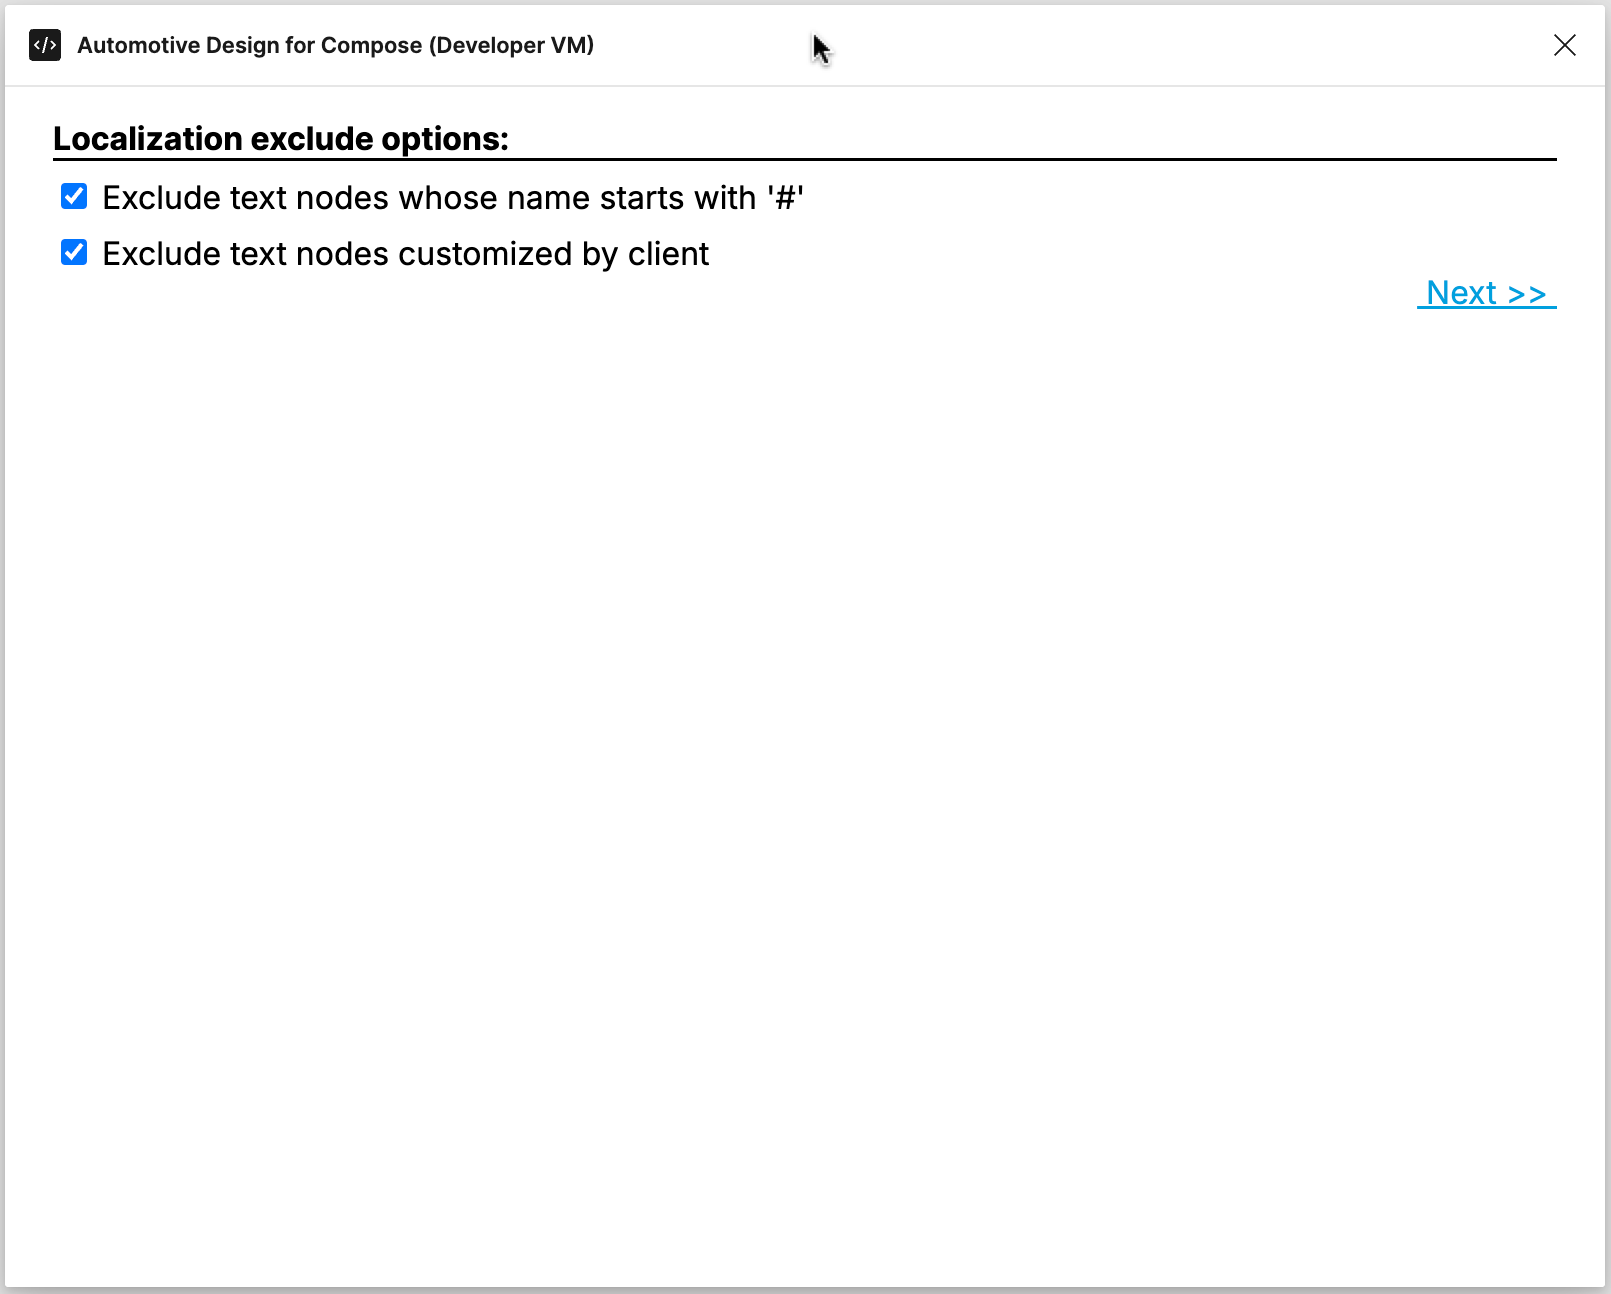
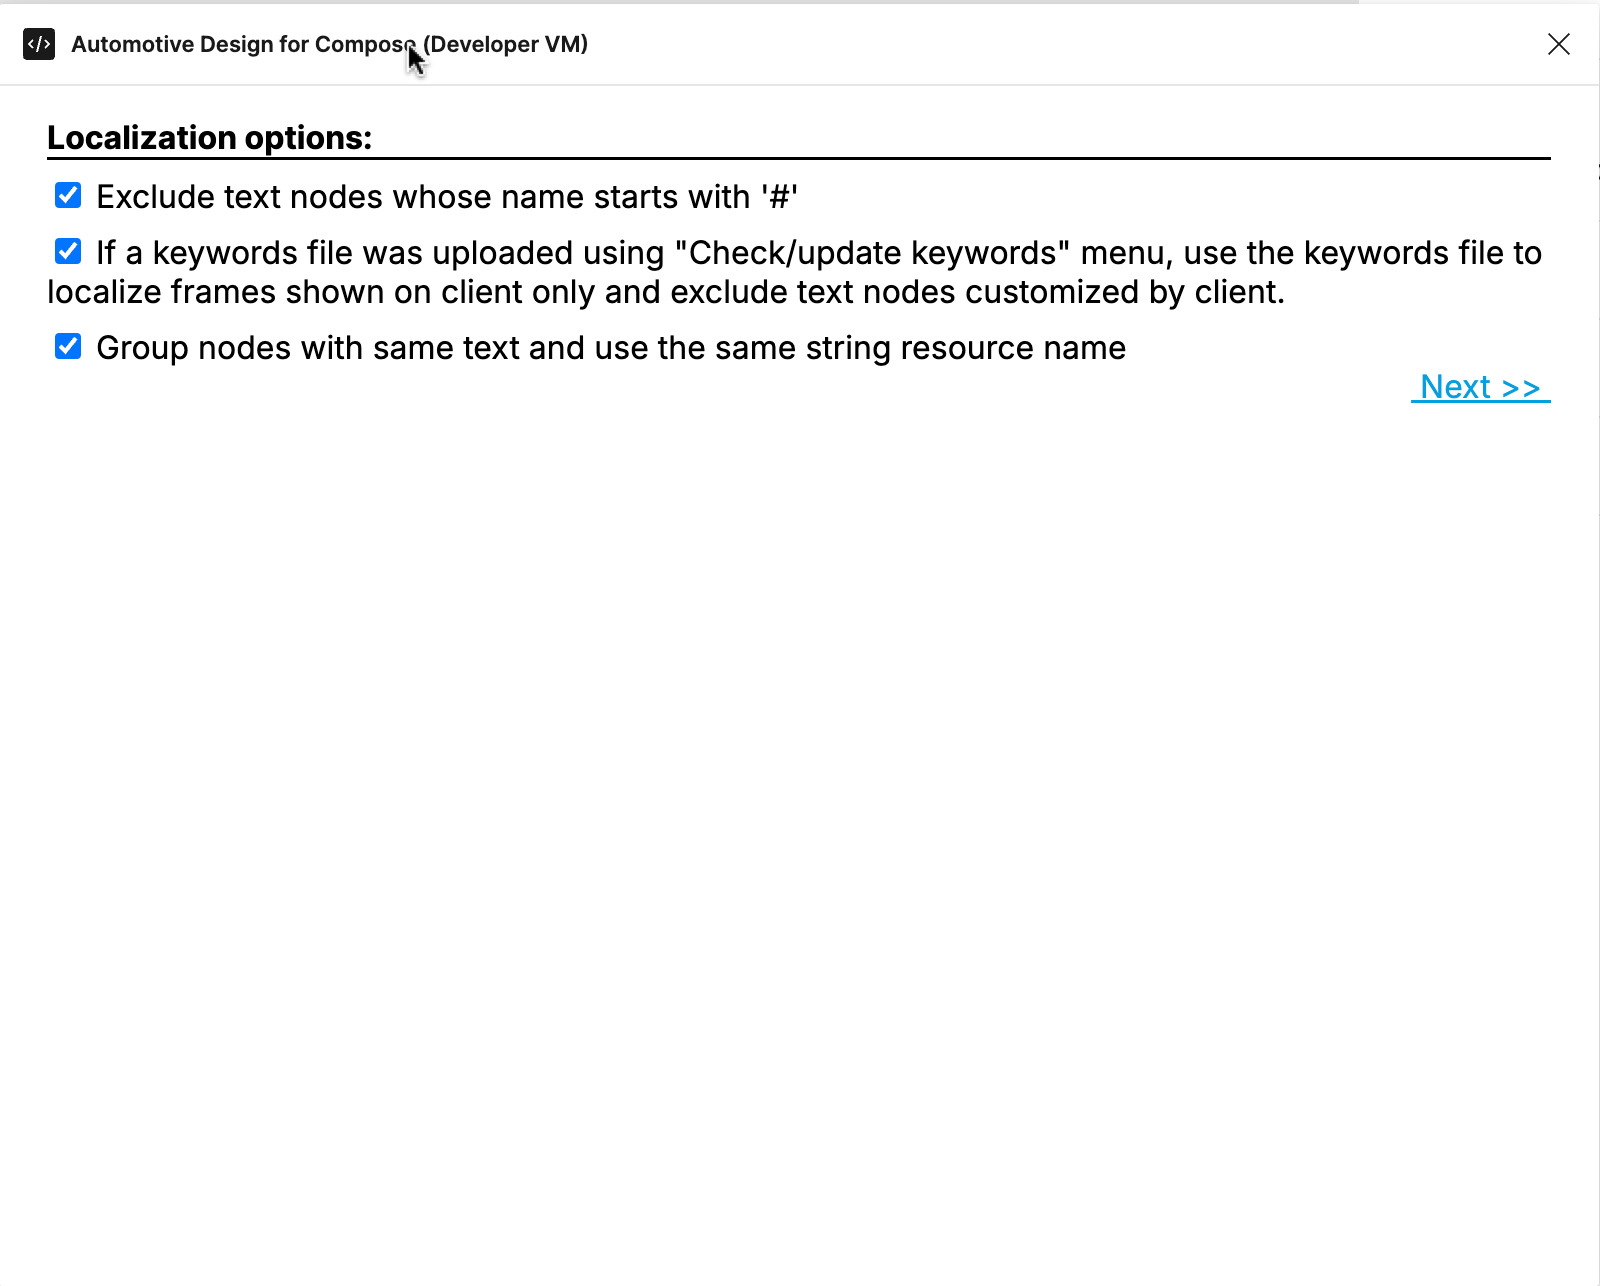
Update localization plugin documentation

diff --git a/docs/_docs/localization.md b/docs/_docs/localization.md
@@ -14,7 +14,7 @@ used by the figma design.
 
 We have published our first version of the localization plugin. You can run it through:
 **Figma Main Menu -> Plugins -> From Google**
-   **-> Automotive Design For Compose -> Localization Tool -> Generate String Resource**
+**-> Automotive Design For Compose -> Localization Tool -> Generate String Resource**
 
 ### 1.1 [Optional] Build the localization plugin from source code
 
@@ -25,38 +25,38 @@ code if you would like to try unreleased features or make experimental changes o
 Below are the steps to build the plugin. You can also find instructions at: <https://www.figma.com/plugin-docs/>
 
 1. Download Node.js which comes with NPM. This will allow you to install TypeScript and other libraries.
-You can find the download link here: <https://nodejs.org/en/download/>.
-Or you can install on linux with the command:
+   You can find the download link here: <https://nodejs.org/en/download/>. Or you can install on linux
+   with the command:
 
-    ```shell
-    sudo apt-get install nodejs npm git
-    ```
+   ```shell
+   sudo apt-get install nodejs npm git
+   ```
 
 2. Run the following to build the plugin:
 
-    ```shell
-    npm install
-    npm run build
-    ```
+   ```shell
+   npm install
+   npm run build
+   ```
 
 3. Install the figma desktop app. Figma will need to read the plugin code saved as a local file. You
-can download it from the [Figma downloads page][2].
+   can download it from the [Figma downloads page][2].
 
 4. Import the plugin from manifest and you are ready to run the plugin. The file path is:
 
-    ```text
-    automotive-design-compose/support-figma/extended-layout-plugin/manifest.json
-    ```
+   ```text
+   automotive-design-compose/support-figma/extended-layout-plugin/manifest.json
+   ```
 
-    <img src="./localization/ImportPluginFromManifest.png">
+   <img src="./localization/ImportPluginFromManifest.png">
 
 5. Run the plugin under development through:
-**Figma Main Menu -> Plugins -> Development**
+   **Figma Main Menu -> Plugins -> Development**
    **-> Automotive Design For Compose -> Localization Tool -> Generate String Resource**
 
 ### 1.2 Strings generation options
 
-Currently the plugin provides two options to exclude text nodes from translations.
+Currently the plugin provides three options to exclude text nodes from translations.
 
 <img src="./localization/LocalizationOptions.png">
 
@@ -64,10 +64,18 @@ The first option excludes text nodes whose name starts with `#` which is a namin
 nodes designed for app customization.
 
 To use the second option, you will need to run the **Check/update keywords** plugin first to upload
-the generated json file under your android app's build folder. The generated json file contains app
+the generated json file under your android app's build folder. The keywords json file contains app
 customizations for nodes so the localization plugin can exclude those text nodes from translation.
+It also uses the top level component names from the keywords file to locate frames that will be rendered
+on the client side and will only pull strings from the text nodes in those frames. By using the keywords
+file, it will exclude text nodes that are used as comments, for example.
 
 <img src="./localization/CheckOrUpdateKeywords.png">
+
+The third option, checked by default, will generate one entry in the generated strings xml file for each
+identical string. By unchecking it, it will generate one entry for each string instance no matter if
+it is the same with some of the other text nodes. Later on, you can review and manually merge the same
+strings if you believe they have the same meaning.
 
 ### 1.3 Upload a strings xml file
 
@@ -90,6 +98,31 @@ to the node `Hello,` which you can rename in this step.
 
 The plugin also allows you to set a proper description and char limit for translations.
 
+#### 1.4.1 Break identical strings into different translations
+
+Below is an example of the output strings with the group option checked.
+
+<img src="./localization/GroupedExample.png">
+
+The strings grouping several text nodes will have a break icon button for each node. By clicking
+this icon, a separate entry for that node will be created with a different string resource id. The
+string resource id is auto generated by the plugin, but you can rename it. Note, if you rename it
+to an exising string resource name with the same text, it will merge them together.
+
+<img src="./localization/UngroupedExample.png">
+
+When it comes to the output with the group option unchecked, you can merge them by renaming them to
+use the same string resource name too.
+
+#### 1.4.2 Manually exclude a node from using the string resources
+
+As you can see from the above output examples, each node id has a checkbox in front of it. By unchecking
+the checkbox, the text node will stop looking up the Android string resources when rendered by DesignCompose.
+It is useful when you don't have a keywords file uploaded or you think the result of using the keywords
+file is not satisfying.
+
+#### 1.4.3 Generate
+
 Finally, click on the **Generate** button and save the gen_strings.xml to the app's `res/values/` folder.
 
 <img src="./localization/LocalizationSave.png">
@@ -106,10 +139,10 @@ The gen_strings.xml contains a string resource entry `label_hello`. If there are
 string resources from other strings xml files, we recommend two options to resolve the conflicts:
 
 1. Manually resolve the conflicts by renaming or removing the conflicted string resources in other
-strings xml files.
+   strings xml files.
 
 2. Run the plugin and upload other string xml file containing conflicts to merge string resources
-with the figma design file to avoid conflicts.
+   with the figma design file to avoid conflicts.
 
 Next the strings can be sent for translations.
 
@@ -153,7 +186,7 @@ HelloWorldDoc.mainFrame(name = stringResource(id = R.string.label_world))
 with string resource
 
 ```xml
-    <string name="label_world" translatable="true">world</string>
+<string name="label_world" translatable="true">world</string>
 ```
 
 ### 2.5 Test the localization
@@ -189,12 +222,9 @@ with different styles.
 
 We are working on a few improvements for the plugin:
 
-1. The ability to exclude a text node manually before hitting the **Generate** button. Designers might
-add some text nodes as comments or explanations to design components which are not actually part of
-the product design.
-2. The ability to do different translations for the same text. Right now the plugin groups the text nodes
-with the same text to use the same string resource name. However, the same text can have different
-translations under different contexts.
+1. The user action to break identical strings into different translations is not saved. We are looking
+   into ways to save it.
+2. The ability to extend the resource generation to static images(png or jpg).
 
 ## 5. Summary
 
